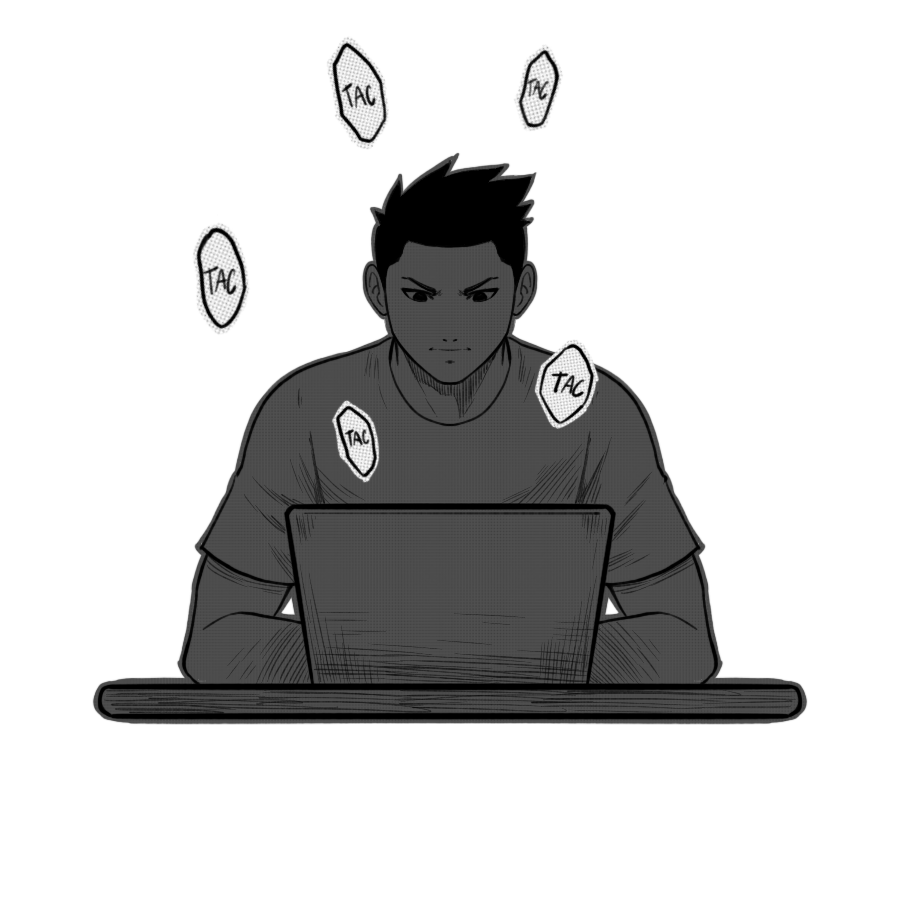
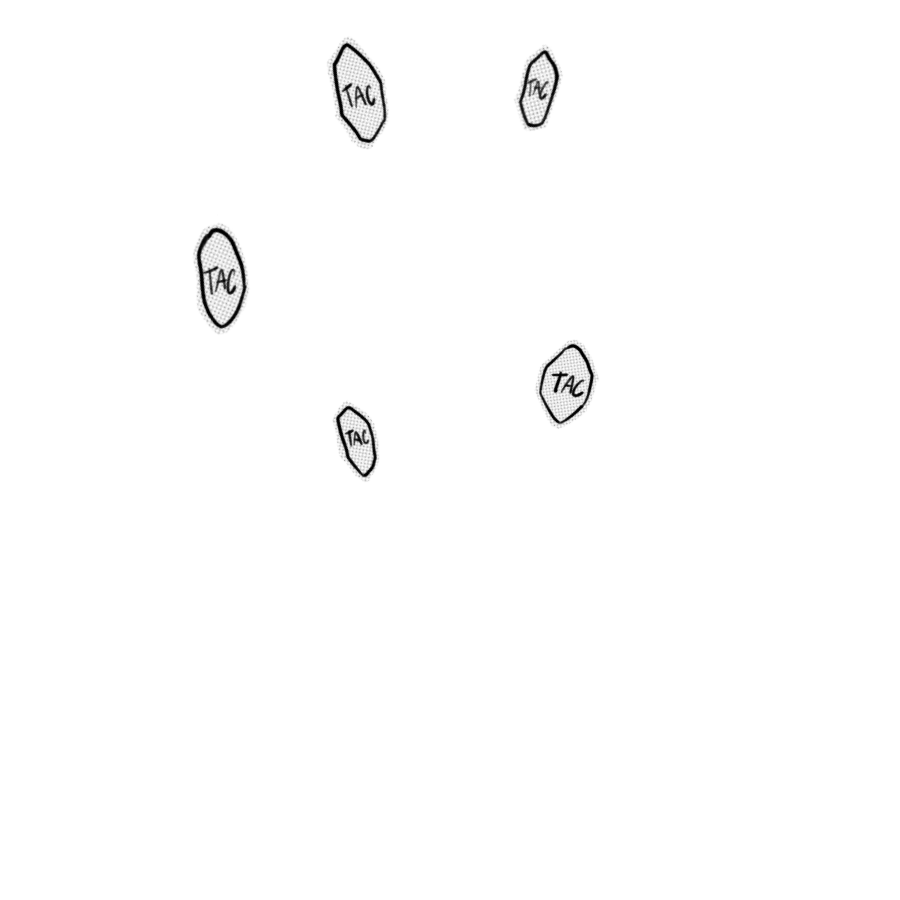
scene 17 - fixed

Changed region(s): [[0.0933, 0.1556, 0.9022, 0.8089]]

diff --git a/styles.css b/styles.css
@@ -304,7 +304,7 @@ body{
         animation-timing-function: ease-in;
     }
 
-    .bg-01, .bg-02, .bg-03, .black-bg, .effect-01, .bg-03-down, .scene-09-books, .scene-09-pizza{
+    .bg-01, .bg-02, .bg-03, .black-bg, .effect-01, .bg-03-down, .scene-09-books, .scene-09-pizza, .bg-scene-17{
         position: absolute;
         top: 0;
     }
@@ -328,6 +328,10 @@ body{
         animation-timing-function: ease-in;
         animation-duration: 10s;
         animation-delay: 1s;
+    }
+
+    .bg-scene-17{
+        background-image: url("./img/scene-17-bg.PNG"); 
     }
 
     .black-bg{

diff --git a/index.html b/index.html
@@ -40,6 +40,7 @@
                 <div class="frame">
                     <div class="scene-17 img"></div>
                     <div class="bg-03 bg-img"></div>
+                    <div class="bg-scene-17 bg-img"></div>
                 </div>
                 <!-- end scene 17 -->
 
